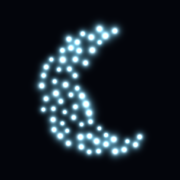
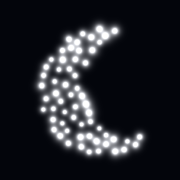
アイコンの点を白一色にした
暈にアプリの既定色（水色）を使っていたが、小さく表示されると絵柄より色のほうが
先に目に入る。三日月と分かればよいので、色は落としてシンプルにする。

暈も芯も白にした。濃さは 0.55 のまま変えていない。ここを下げると暈が痩せて
ただの白い丸が並んでいるように見え、光っている感じが消える。落差があるから
光に見えるので、色ではなく落差のほうを残した。

Changed region(s): [[0.1944, 0.1111, 0.8056, 0.8889]]

diff --git a/makeicon.js b/makeicon.js
@@ -48,7 +48,8 @@ function writePng(path, w, h, rgb){ // rgb: Uint8Array w*h*3
 
 // ------------------------------------------------------------- 絵づくり ----
 const BG = [0x03, 0x05, 0x0b];      // アプリの背景と同じ
-const HALO = [0x7f, 0xe0, 0xff];    // 暈の既定色（アプリを開いたときの色）
+const HALO = [0xff, 0xff, 0xff];    // 暈も白。色を入れると絵柄より色が目立つので、
+                                    // 白一色にして、暈と芯の落差だけで光に見せる
 const CORE = [0xff, 0xff, 0xff];    // 芯は純白（RONDOと同じ組み立て）
 
 function mulberry32(a){
@@ -186,7 +187,7 @@ const svg = `<svg xmlns="http://www.w3.org/2000/svg" viewBox="0 0 64 64">`
   + `<rect width="64" height="64" fill="#03050b"/>`
   + `<defs><filter id="b" x="-50%" y="-50%" width="200%" height="200%">`
   + `<feGaussianBlur stdDeviation="${blur}"/></filter></defs>`
-  + `<g fill="#7fe0ff" opacity=".55" filter="url(#b)">${circles}</g>`
+  + `<g fill="#fff" opacity=".55" filter="url(#b)">${circles}</g>`
   + `<g fill="#fff">${cores}</g></svg>`;
 fs.writeFileSync(ROOT + 'icon.svg', svg);
 
